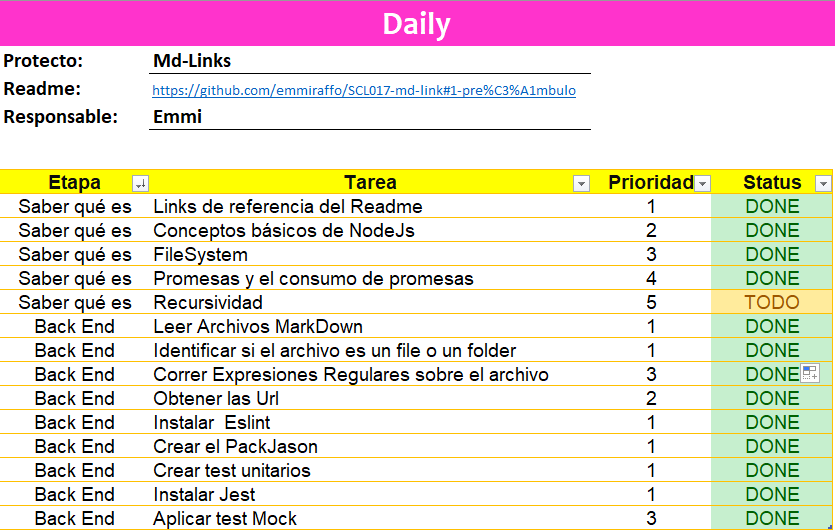
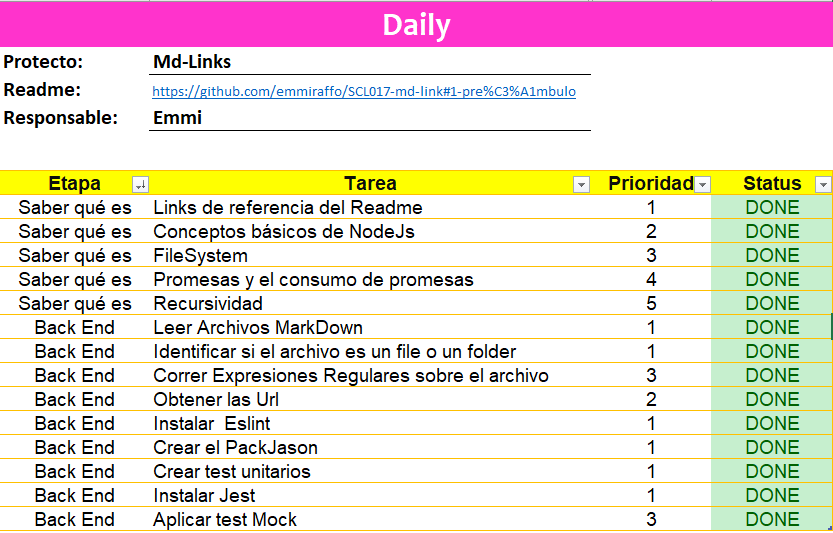
recursividad

diff --git a/test/testReader.spec.js b/test/testReader.spec.js
@@ -1,6 +1,6 @@
 const { readMdFile } = require('../src/reader');
 const { getMdFilesFromPath } = require('../src/reader');
-
+const {readFilesInFolder} = require('../src/reader');
 
 jest.mock('fs', () => {
     const mockFileInfo = { 
@@ -21,8 +21,18 @@ jest.mock('fs', () => {
       },
       readdirSync: (fpath) =>{
           return ['/test.md', '/test1.md', '/test.js']
-      }
-    }
+      },
+      statSync: (fpath) =>{
+        return {
+          isDirectory: () => {
+            return false
+          },
+          isFile: () => {
+            return true
+          },
+        }
+    },
+  }
 });
 
 describe('Read File', () => {
@@ -41,6 +51,17 @@ describe('Read File', () => {
     });
 });
 
+
+describe('should be to read a file In a Folder', () => {
+  it("it's a function", () => {
+      expect(typeof readFilesInFolder).toBe('function');
+    });
+
+})
+
+
+
+
 describe('should be to cacht a file', () => {
     it("it's a function", () => {
         expect(typeof getMdFilesFromPath).toBe('function');
@@ -53,29 +74,6 @@ describe('should be to cacht a file', () => {
 
     it("file .md found in directory", () => {
         let fileParam = '/doc'
-        return expect(getMdFilesFromPath(fileParam)).toEqual(['/doc/test.md','/doc/test1.md']);
+        return expect(getMdFilesFromPath(fileParam)).toEqual([]);
     });
-
-    
-
 })
-/*
-function drinkAll(callback, flavour) {
-    if (flavour !== 'octopus') {
-      callback(flavour);
-    }
-  }
-  
-  describe('drinkAll', () => {
-    test('drinks something lemon-flavoured', () => {
-      const drink = jest.fn();
-      drinkAll(drink, 'lemon');
-      expect(drink).toHaveBeenCalled();
-    });
-  
-    test('does not drink something octopus-flavoured', () => {
-      const drink = jest.fn();
-      drinkAll(drink, 'octopus');
-      expect(drink).not.toHaveBeenCalled();
-    });
-  });*/

diff --git a/src/reader.js b/src/reader.js
@@ -4,21 +4,35 @@ const path = require('path');
 
 // FUNCION PARA DETECTAR ARCHIVOS MD EN FILE O FOLDER
 function getMdFilesFromPath(pathParam) {
-    let extension = path.extname(pathParam)
-    if (extension == '.md') {
-        return [pathParam]
+    absolutePath = path.resolve(pathParam)
+    statsObj = fs.statSync(absolutePath)
+    if(statsObj.isFile()) {
+        let extension = path.extname(absolutePath)
+        if (extension == '.md') {
+            return [absolutePath]
+        }
     }
-    if (extension == '') {
+    if (statsObj.isDirectory()) {
         var fileArray = []
-        fs.readdirSync(pathParam).forEach((file)=> {
-            let extension = path.extname(file)
-            if (extension == '.md') {
-                fileArray.push(pathParam + file)
-            }
-        })
+        readFilesInFolder(absolutePath, fileArray)
         return fileArray
     }
     return []
+}
+
+function readFilesInFolder(folder, fileArray){
+    fs.readdirSync(folder).forEach((element)=> {
+        let newFolder = path.resolve(folder, element)
+        let statsObj = fs.statSync(newFolder)
+        if (statsObj.isDirectory()) {
+            readFilesInFolder(newFolder, fileArray)
+        } else {
+            let extension = path.extname(newFolder)
+            if (extension == '.md') {
+                fileArray.push( path.resolve(folder, element))
+            }
+        }
+    })
 }
 
 // FUNCION PARA DETECTAR ARCHIVOS MD EN FILE O FOLDER
@@ -39,5 +53,6 @@ function readMdFile (fileParam) {
 
 module.exports = {
     getMdFilesFromPath,
+    readFilesInFolder,
     readMdFile
 }

diff --git a/README.md b/README.md
@@ -18,7 +18,7 @@ desde tu terminal introducel el comando acompañado de la ruta del directorio o 
 ## Planificaión del flujo de trabajo:
 Para el desarrollo de este proyecto, comencé realizando una lista de accionables que llevaría a cabo y las documenté en un archivo excel para realizar el seguimiento. 
 
-<img src="../images/scrud.png" width="300px" />
+<img src="./images/scrud.png" width="300px" />
 
 pack instalados: 
 ` npm install eslint --save-dev `

diff --git a/src/hola/hola.md b/src/hola/hola.md
@@ -1,0 +1,3 @@
+www.tucarro.com
+
+testtt

diff --git a/src/hola/mund/pepe.md b/src/hola/mund/pepe.md
@@ -1,0 +1,1 @@
+www.paca.com
